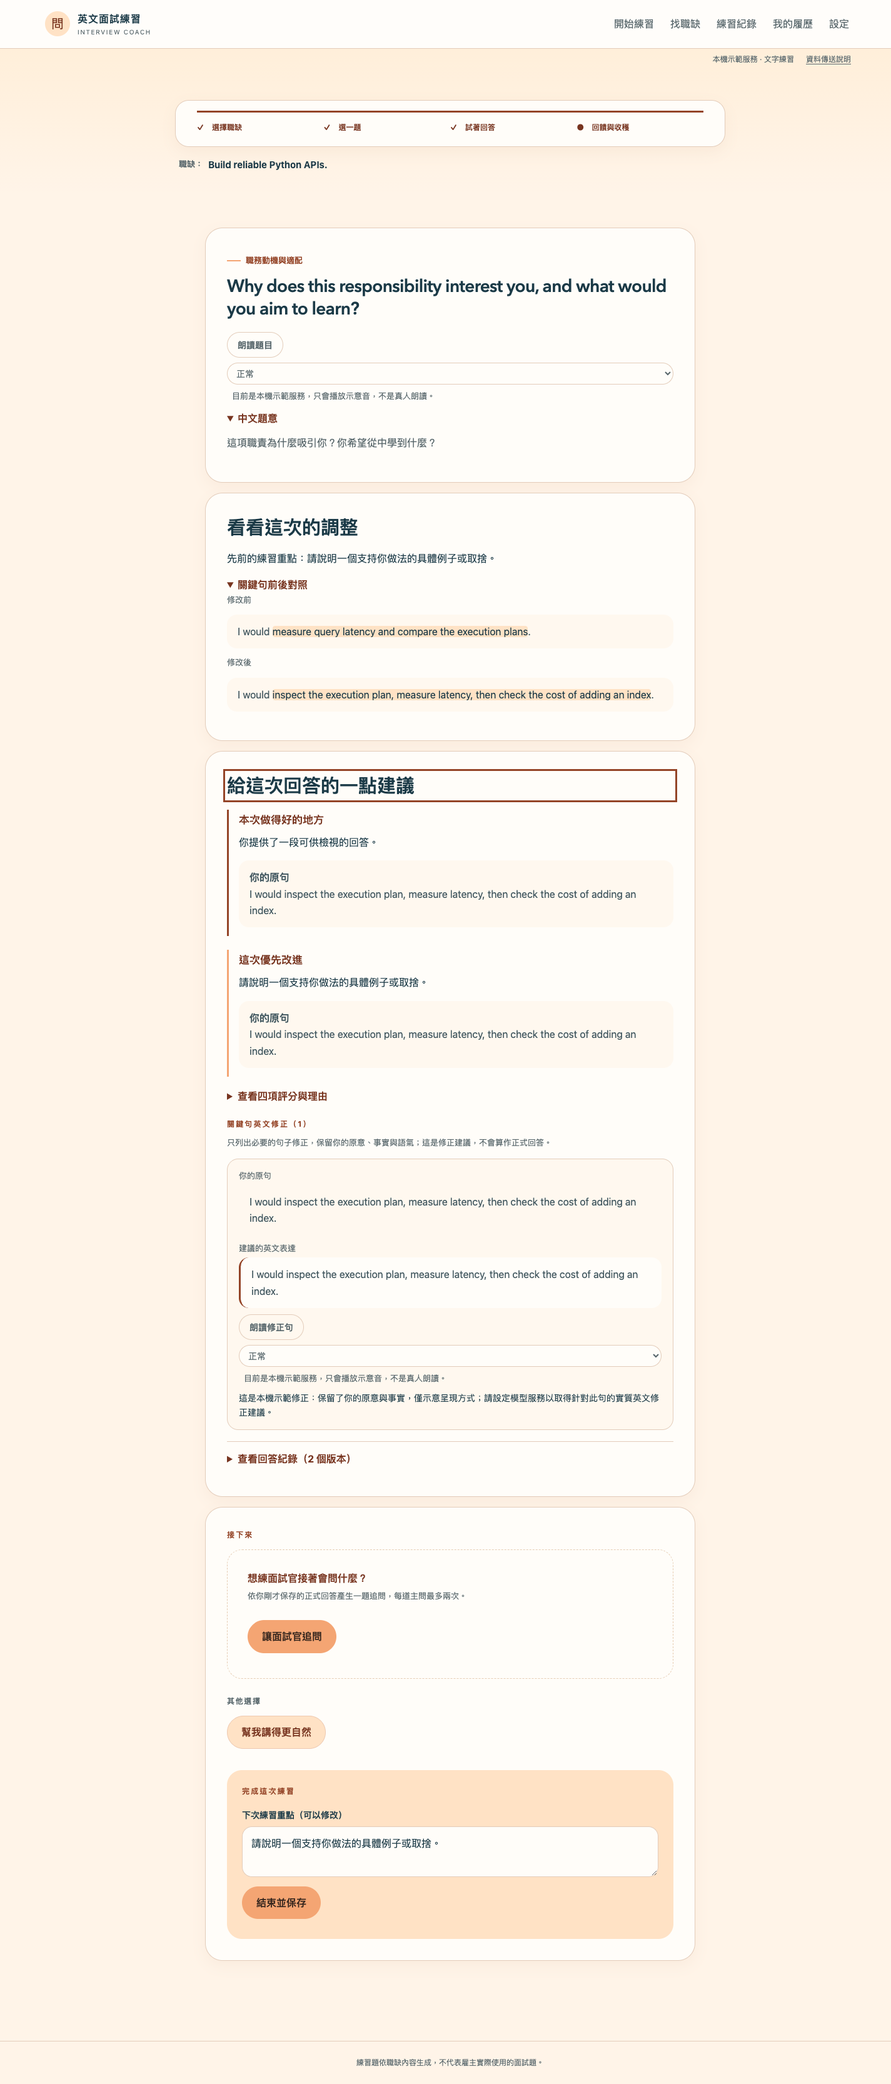
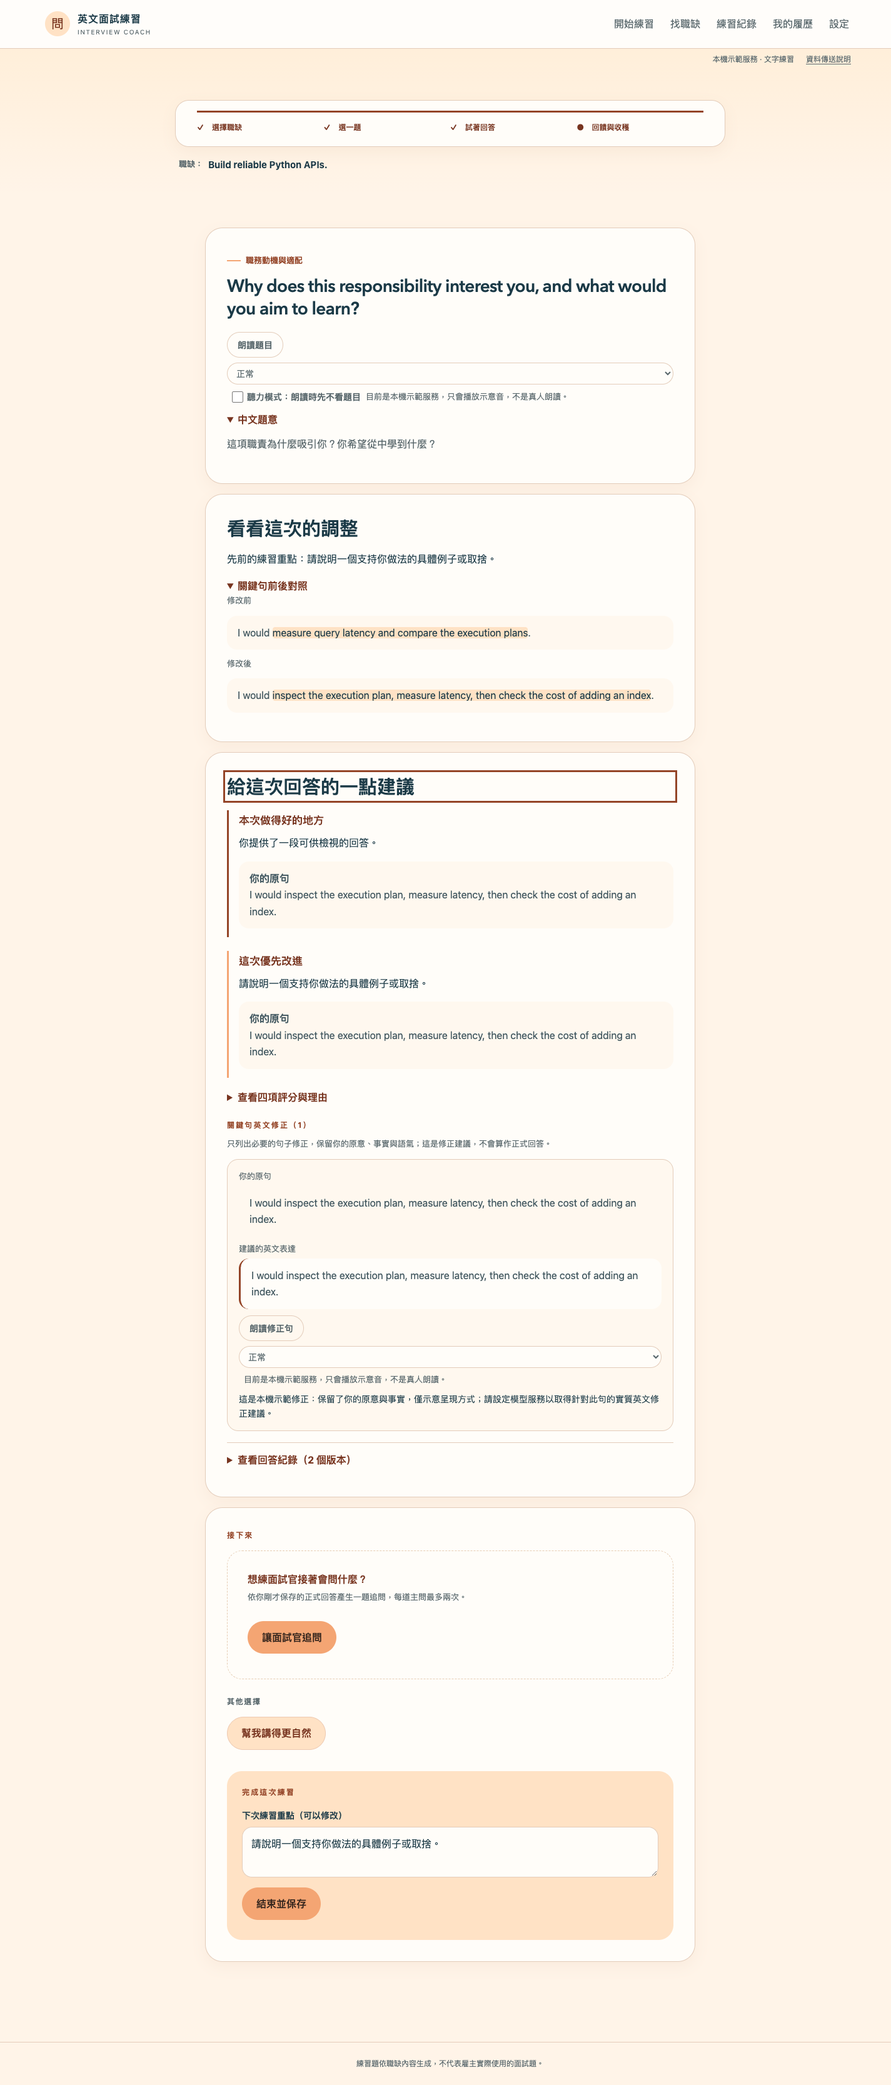
feat: Add an opt-in listening mode that hides the question
In a real interview the question arrives by ear only, so listening mode hides
the English question and its Chinese meaning while it is read aloud. It is off
by default, so the reading-along experience is unchanged unless asked for, and
the choice is remembered in this browser as a display preference rather than
practice data.

Two rules matter more than the feature. A read-aloud failure reveals the
question immediately, so a learner is never left unable to both hear and read
it. And hidden text uses the hidden attribute, so it leaves the accessibility
tree rather than being painted over.

The text never reappears on its own when the audio ends - working out what was
heard is the point - so revealing it is always a deliberate click.

Closes docs/issues/0021-hide-the-question-in-listening-mode.md

diff --git a/public/app.js b/public/app.js
@@ -133,12 +133,15 @@ function outboundLabel(value) {
 
 // Read-aloud is reference-addressed: the server resolves the English text from its
 // own stored data, so nothing on this page decides what gets spoken.
-function readAloud(parent, reference, label) {
+function readAloud(parent, reference, label, hideable) {
   // An ApiError message is already localized; a browser playback failure is raw English,
-  // so it is replaced rather than shown to the learner.
-  return mountReadAloud(parent, reference, {api, provider:providerInfo?.speech, label,
+  // so it is replaced rather than shown to the learner. `hideable` is the question text
+  // that listening mode hides; omit it where there is no question to hide.
+  return mountReadAloud(parent, reference, {api, provider:providerInfo?.speech, label, hideable,
     onError:error => setError(error instanceof ApiError ? error.message : '這個瀏覽器無法播放這段朗讀音訊。你可以再試一次，或直接閱讀畫面上的英文。')});
 }
+// The question text and its Chinese meaning sit either side of the read-aloud control.
+const questionText = scope => [scope?.querySelector('.question-text, .follow-up-question'), scope?.querySelector('details')].filter(Boolean);
 // An Answer Recording is evidence of what the learner said. It is served from this
 // machine, never cached, and an edited transcript is labelled rather than the audio
 // being presented as matching the edited text.
@@ -365,7 +368,7 @@ async function showQuestion(snapshotId, questionId, suppliedAnalysis) {
   const providerGate = modelReady() ? '' : `<div class="provider-warning"><strong>目前還不能取得模型回饋。</strong><p>請先到設定完成 Codex 登入與驗證；若要先整理想法，文字草稿仍會保存在本機。</p><div id="question-provider-gate"></div></div>`;
   const content = `<div id="recommended-question" class="question-phase"><p class="question-kicker">${recommended ? '建議先練' : '目前選擇'}｜${escape(categories[question.category] || question.category)}</p><h1 class="question-text" lang="en">${escape(question.text)}</h1><div id="question-read-aloud"></div><details open><summary>查看中文題意</summary><div class="detail-panel"><p>${escape(meaning)}</p></div></details>${providerGate}<div class="button-row" id="question-actions"></div></div>`;
   $('#practice').innerHTML = practiceFrame({stage:1, snapshot, content});
-  readAloud($('#question-read-aloud'), {snapshotId, questionId:question.id}, '朗讀題目');
+  readAloud($('#question-read-aloud'), {snapshotId, questionId:question.id}, '朗讀題目', questionText($('#recommended-question')));
   const actions = $('#question-actions');
   const begin = async () => {
     const existing = incompleteForQuestion(snapshotId, question.id);
@@ -912,8 +915,8 @@ async function showRecord(recordId, {editing=false,feedbackOnly=false,focusFeedb
     body+=`<section class="next-steps"><p class="eyebrow next-steps-title">接下來</p>${followUpHtml(record,complete)}${optional}${completion}</section>`;
   }
   $('#practice').innerHTML = practiceFrame({stage:last?.feedback?3:2,snapshot,content:body});
-  readAloud($('#question-read-aloud'), {recordId:record.id}, '朗讀題目');
-  if (currentFollowUp) readAloud($('#follow-up-read-aloud'), {recordId:record.id, followUpId:currentFollowUp.id}, '朗讀追問題目');
+  readAloud($('#question-read-aloud'), {recordId:record.id}, '朗讀題目', questionText($('#question-read-aloud')?.closest('.question-phase')));
+  if (currentFollowUp) readAloud($('#follow-up-read-aloud'), {recordId:record.id, followUpId:currentFollowUp.id}, '朗讀追問題目', questionText($('#follow-up-read-aloud')?.closest('.follow-up-flow')));
   // Corrections rendered inside the collapsed follow-up history are static markup, so
   // they need mounting here; the live panels mount through setupCorrections.
   document.querySelectorAll('[data-history-attempt]').forEach(area => mountCorrectionReadAloud(area, record.id, area.dataset.historyAttempt));
@@ -1013,7 +1016,7 @@ async function showMockSession(sessionId, {summaryFresh = false} = {}) {
         <div id="mock-voice-entry"></div>
         <div class="button-row" id="mock-actions"></div>
       </section></div></article>`;
-    readAloud($('#question-read-aloud'), {snapshotId: session.snapshotId, questionId: entry.question.id}, '朗讀題目');
+    readAloud($('#question-read-aloud'), {snapshotId: session.snapshotId, questionId: entry.question.id}, '朗讀題目', questionText($('#question-read-aloud')?.closest('.question-phase')));
     mountMockVoice(session, entry);
     const submissionId = crypto.randomUUID();
     button(session.currentPosition === session.questionCount ? '送出並結束這場模擬' : '送出，下一題', async () => {

diff --git a/test/browser-smoke.js b/test/browser-smoke.js
@@ -58,6 +58,38 @@ try {
  for(let i=0;i<4;i++){el('#question-read-aloud .read-aloud-replay').click();el('#question-read-aloud .read-aloud-play').click();}
  await new Promise(r=>setTimeout(r,600));
  if(window.__played.length>beforeBurst+1)throw Error('Overlapping readings started: '+(window.__played.length-beforeBurst));
+ // Listening mode: off by default, hides the question on play, reveals in one click.
+ const qText=()=>el('#recommended-question .question-text');
+ const qMeaning=()=>el('#recommended-question details');
+ if(!el('.listening-mode'))throw Error('Listening-mode toggle missing beside the question');
+ if(el('.listening-mode').checked)throw Error('Listening mode must be off by default');
+ if(qText().hidden)throw Error('Question hidden while listening mode is off');
+ el('.listening-mode').checked=true;el('.listening-mode').dispatchEvent(new Event('change',{bubbles:true}));
+ const playedBefore=window.__played.length;
+ click('#question-read-aloud .read-aloud-play');
+ await wait(()=>qText().hidden,'question hidden on play');
+ if(!qMeaning().hidden)throw Error('Chinese meaning stayed visible in listening mode');
+ if(el('.read-aloud-reveal').hidden)throw Error('No reveal control while the question is hidden');
+ await wait(()=>window.__played.length>playedBefore,'audio played in listening mode');
+ await new Promise(r=>setTimeout(r,300));
+ if(!qText().hidden)throw Error('Question reappeared by itself when the audio ended');
+ click('.read-aloud-reveal');
+ await wait(()=>!qText().hidden,'one-click reveal');
+ if(qMeaning().hidden)throw Error('Chinese meaning not revealed');
+ if(!el('.read-aloud-reveal').hidden)throw Error('Reveal control still shown after revealing');
+ // A read-aloud failure must reveal the question rather than leave nothing.
+ const realSpeech=window.fetch.bind(window);
+ window.fetch=async(...a)=>{if(a[1]?.method==='POST'&&String(a[0]).endsWith('/api/speech'))return new Response(JSON.stringify({error:'synthetic failure'}),{status:503,headers:{'Content-Type':'application/json'}});return realSpeech(...a);};
+ // Pick a speed whose audio is not already cached, so the request really is made.
+ el('#question-read-aloud .read-aloud-speed').value='fast';el('#question-read-aloud .read-aloud-speed').dispatchEvent(new Event('change',{bubbles:true}));
+ click('#question-read-aloud .read-aloud-play');
+ await wait(()=>el('#question-read-aloud .read-aloud-status').textContent.includes('已顯示題目'),'failure reveals the question');
+ if(qText().hidden)throw Error('Question stayed hidden after a read-aloud failure');
+ window.fetch=realSpeech;
+ el('.listening-mode').checked=false;el('.listening-mode').dispatchEvent(new Event('change',{bubbles:true}));
+ if(qText().hidden)throw Error('Turning listening mode off did not reveal the question');
+ sessionStorage.setItem('listening-checked','1');
+
  click('#question-actions button');await wait(()=>el('#answer'),'editor');
  if(!el('#retry-draft').hidden)throw Error('Retry visible before failure');
 

diff --git a/public/style.css b/public/style.css
@@ -471,3 +471,8 @@ mark { background: #ffe2c5; color: #1b3a47; border-radius: 4px; }
 .fit-part .meta { margin: 0; }
 .fit-gaps { background: var(--coral-soft); }
 .shortlist-card .shortlist-depth { margin-bottom: 8px; padding: 8px 12px; border: 1px solid var(--line); border-radius: 12px; }
+
+/* Listening mode: the toggle stays quiet, the reveal control stays obvious. */
+.listening-toggle { display: inline-flex; align-items: center; gap: 6px; margin: 0; font-size: 14px; color: var(--ink-soft); }
+.listening-toggle input { margin: 0; }
+.read-aloud-reveal { border-color: var(--teal); color: var(--teal-dark); }

diff --git a/docs/issues/0021-hide-the-question-in-listening-mode.md b/docs/issues/0021-hide-the-question-in-listening-mode.md
@@ -1,0 +1,96 @@
+---
+status: ready-for-human
+---
+
+# Hide the question in listening mode
+
+## Parent
+
+[PRD — Voice practice](../prd-voice-practice.md)
+
+## User stories covered
+
+54–62
+
+## Related
+
+Confirmed on 2026-09-21 in
+[`voice-practice-discussion.md`](../voice-practice-discussion.md) §"追加確認：聽力模式".
+Builds on issue 0014 (read aloud).
+
+## What to build
+
+An opt-in **listening mode**. In a real interview the question arrives by ear only;
+today the product always shows it, which is right for the default reading-along
+experience and wrong for anyone who wants to practise taking a question in by ear.
+
+A toggle sits beside the read-aloud control wherever a **question** can be read
+aloud: the single-question practice screen, the question inside a Practice Record,
+a Follow-up Question, and a Short Mock Session question. The Illustrative Answer
+and Key-Sentence Correction rewrites are reference text, not questions, and are out
+of scope.
+
+The toggle is **off by default**, so the existing behaviour — English question and
+Traditional Chinese meaning both on screen — is unchanged unless the learner asks
+for it. The choice is remembered across screens and reloads as a per-viewer
+convenience; it is a display preference, not practice data, so it does not belong
+in the Practice Record.
+
+With the mode on, pressing play hides the English question text and its Chinese
+meaning, and a **"顯示題目"** control stays visible the whole time. When the audio
+ends the text does **not** come back by itself — working out what was heard is the
+point — so revealing it is always a deliberate click. Revealing is per question:
+moving to another question starts hidden again while the mode is on.
+
+Two failure rules matter more than the feature itself:
+
+- If read-aloud fails for any reason, the question is revealed immediately. A
+  learner must never end up unable to both hear and read it.
+- If no read-aloud service is configured, the toggle is not rendered at all, so it
+  never offers something that cannot happen.
+
+Hidden text is removed from the accessibility tree, not merely painted over, so a
+screen-reader user gets the same experience rather than a silently different one.
+The state change is announced.
+
+## Acceptance criteria
+
+- [x] A listening-mode toggle appears beside the question read-aloud control on the
+      question screen, in a Practice Record, on a Follow-up Question and in a Short
+      Mock Session.
+- [x] The toggle is off by default and the current behaviour is unchanged while off.
+- [x] The choice is remembered across screens and across a page reload, and a
+      browser that refuses storage still works with the mode simply off.
+- [x] With the mode on, pressing play hides the English question and its Chinese
+      meaning.
+- [x] A "顯示題目" control is visible the whole time the text is hidden and reveals
+      it in one click.
+- [x] The text does not reappear on its own when the audio ends.
+- [x] Moving to another question starts hidden again while the mode is on.
+- [x] A read-aloud failure reveals the question immediately.
+- [x] The toggle is not rendered when the speech provider cannot speak.
+- [x] Hidden text is removed from the accessibility tree, and the change is
+      announced to assistive technology.
+- [x] Turning the mode off while the text is hidden reveals it.
+- [x] No Practice Record, Short Mock Session or workspace field is added or changed;
+      this is presentation only, and no HTTP contract changes.
+- [x] Browser smoke covers: default off, enabling, hiding on play, one-click reveal,
+      no auto-reveal on end, reveal on failure, and persistence across a reload.
+
+## Out of Scope
+
+- Hiding the Illustrative Answer or Key-Sentence Correction rewrites.
+- Any listening comprehension scoring, replay limits or "how many times did you
+  listen" tracking.
+- Changing the default reading-along experience.
+- Dictation (typing what you heard and being marked on it).
+
+## Blocked by
+
+- [Issue 0014](./0014-read-english-practice-text-aloud.md) (completed)
+
+## Verification
+
+Implemented and verified through the browser seam and a real-browser walk.
+[Evidence](../verification/0021.md). Whether it genuinely helps listening practice
+is pending learner acceptance.

diff --git a/docs/verification/0021.md b/docs/verification/0021.md
@@ -1,0 +1,40 @@
+# Issue 0021 verification — listening mode
+
+Date: 2026-09-21. Implementation by the main agent. No independent review yet.
+
+| AC | Evidence |
+|---|---|
+| Toggle beside the question read-aloud control in all four places | Mounted wherever a question is read aloud: the question screen, a Practice Record, a Follow-up Question and a Short Mock Session question. It is passed the question text and its Chinese meaning; the Illustrative Answer and correction rewrites get no `hideable`, so no toggle appears there |
+| Off by default, current behaviour unchanged while off | Browser smoke asserts the toggle exists, is unchecked, and the question is visible |
+| Remembered across screens and a page reload | Persisted in `localStorage`; verified in a real browser across a genuine reload (`persistedAcrossReload: true`, `storedValue: "on"`). A module-level listener keeps every mounted control in step within a page |
+| Storage refusal still works | Both the read and the write are wrapped in `try/catch`; a browser that refuses storage simply runs with the mode off |
+| Pressing play hides the English question and its Chinese meaning | Asserted in the smoke test; hiding happens *before* the request so the learner cannot read ahead while the audio loads |
+| A reveal control is visible the whole time and reveals in one click | `顯示題目` is un-hidden with the text and asserted in the smoke test |
+| No auto-reveal when the audio ends | The smoke test waits for playback, then waits again and asserts the question is still hidden |
+| Another question starts hidden again | Each mount renders fresh with the text visible and hides on its own next play |
+| A read-aloud failure reveals the question immediately | Asserted in the smoke test with a stubbed 503, and **observed in a real browser**: the demo tone failed to play and the question was revealed with 「朗讀失敗，已顯示題目，可再試一次。」 |
+| No toggle when the provider cannot speak | `mountReadAloud` returns early when `canSpeak` is false, so neither the control nor the toggle is rendered |
+| Hidden text is out of the accessibility tree | The `hidden` attribute is used, not a visual-only class. Verified in a real browser: `hidden: true`, `display: none`, `offsetParent: null` |
+| Turning the mode off while hidden reveals the text | Asserted in the smoke test |
+| No schema, record or HTTP contract change | Presentation only; `npm test` unchanged at 163/163 and no server file was touched |
+
+Automated evidence: `npm test` — **163/163 pass** (unchanged; this issue adds no API
+surface). `npm run test:browser` — **PASS**, including the full listening-mode walk.
+
+Real-browser verification: default off, enable, reload, reopen the practice, confirm
+the mode persisted, confirm hiding removes the text from the accessibility tree, and
+confirm a failure reveals it.
+
+Limits and what is **not** verified:
+
+- **Whether it is actually useful for listening practice is a human judgement**, and
+  is pending learner acceptance. Nothing here says the mode teaches anything.
+- Audible playback is still unverified in this environment (see
+  [the third-round record](./third-round-0014-0020.md)); the failure path was
+  exercised precisely because playback failed.
+- The preference is per browser and per device, and is lost when site data is
+  cleared. That is deliberate: it is a display preference, not practice data, so it
+  is not stored in the Practice Record.
+- No screen reader was actually run. The evidence is that hidden text is removed
+  from the accessibility tree by the `hidden` attribute, not an observation of
+  assistive-technology behaviour.

diff --git a/docs/voice-practice-discussion.md b/docs/voice-practice-discussion.md
@@ -20,7 +20,17 @@
 - 轉錄完成後顯示可修改的逐字稿，使用者可直接按「送出回答」取得回饋；不要求逐句檢查或額外確認勾選，需要時才修改或重錄。不自動提交，尚未送出不算正式回答。使用者於 2026-09-21 接受此折衷方案。
 - 每次錄音最多 3 分鐘，顯示已錄時間，接近上限提醒；到時自動停止並转錄，不丟掉已錄內容。使用者於 2026-09-21 確認。實作須同步核對既有上傳大小限制，不能只改前端計時。
 
-## 2026-09-21 批次確認
+## 2026-09-21 追加確認：聽力模式
+
+使用者在第三輪交付後詢問「朗讀時是否應該隱藏題目文字，讓人練聽力」，並在看過建議後指示開立 issue 0021 實作。以下為確認的決策。
+
+- 提供一個可開關的**聽力模式**，預設關閉，記住使用者的選擇。不改變既有「英文題目與中文題意保留」的預設行為。
+- 開啟後，按下朗讀時隱藏英文題目與中文題意；旁邊永遠保留「顯示題目」按鈕，按一下即可看到文字。
+- 朗讀結束後文字不會自動出現，要由使用者自己按「顯示題目」；這是聽力練習的重點。
+- 朗讀失敗時必須立刻顯示題目，不能讓使用者既聽不到也看不到。
+- 沒有配置朗讀服務時不顯示這個開關。
+- 適用範圍為「題目」：單題練習的主問、練習紀錄中的題目、追問題、三題短場模擬的題目。示範回答與關鍵句修正屬於參考文字，不納入。
+- 建議在三題短場模擬最有價值（模擬真實情境只聽得到題目），但單題練習也提供，由使用者決定。
 
 使用者針對 27 項清單回覆「其他都可以，但要能回聽自己的錄音」，隨後確認保存在本機。以下記錄接受的建議。涉及服務選擇、費用與來源可用性的調查不因本次接受方向而視為完成。
 

diff --git a/docs/prd-voice-practice.md b/docs/prd-voice-practice.md
@@ -219,6 +219,29 @@ emotion or personality.
 47. As a Target Learner, I want to see roughly how much recording audio is stored
     locally, so that local retention is visible rather than hidden.
 
+### Listening mode (added 2026-09-21, issue 0021)
+
+54. As a Target Learner, I want an optional listening mode that hides the question
+    text while it is read aloud, so that I practise taking a question in by ear the
+    way a real interview gives it to me.
+55. As a Target Learner, I want that mode off by default, so that the calm
+    read-along experience I already have is unchanged unless I ask for it.
+56. As a Target Learner, I want my choice remembered, so that I do not re-enable it
+    every time.
+57. As a Target Learner, I want a "show the question" control always visible while
+    the text is hidden, so that I am never stuck.
+58. As a Target Learner, I do not want the text to reappear by itself when the
+    audio ends, so that I actually have to work out what I heard.
+59. As a Target Learner whose read-aloud fails, I want the question shown
+    immediately, so that I am never left unable to both hear and read it.
+60. As a Target Learner using a screen reader, I want hidden text removed from the
+    accessible tree rather than only visually hidden, so that the mode means the
+    same thing for me as for anyone else.
+61. As a Target Learner, I want the toggle absent when no read-aloud service is
+    configured, so that it never promises something that cannot happen.
+62. As a Target Learner in a Short Mock Session, I want the mode to work there too,
+    so that the closest thing to a real interview can be heard rather than read.
+
 ### Disclosure, privacy and scope of assessment
 
 48. As a Target Learner, I want the screen to name the service that receives my

diff --git a/docs/issues/README.md b/docs/issues/README.md
@@ -24,6 +24,7 @@ Local issue tracker for the Adaptive English Interview Coach. All issues below w
 | [0018 — Run a three-question Short Mock Session](./0018-run-a-three-question-short-mock-session.md) | ready-for-human | 0017 |
 | [0019 — Interpret a natural-language job request](./0019-interpret-a-natural-language-job-request.md) | ready-for-human | None |
 | [0020 — Curate five jobs with a Fit Breakdown](./0020-curate-five-jobs-with-a-fit-breakdown.md) | ready-for-human | 0019 |
+| [0021 — Hide the question in listening mode](./0021-hide-the-question-in-listening-mode.md) | ready-for-human | 0014 |
 
 Implementation should proceed in dependency order. Start each issue in a fresh session with the PRD and only the selected issue as the implementation brief.
 
@@ -31,6 +32,6 @@ Implementation should proceed in dependency order. Start each issue in a fresh s
 
 | PRD | Issues |
 |---|---|
-| [Voice practice](../prd-voice-practice.md) | 0014–0017 |
+| [Voice practice](../prd-voice-practice.md) | 0014–0017, 0021 |
 | [Three-question short mock session](../prd-short-mock-session.md) | 0018 |
 | [Natural-language curated job discovery](../prd-curated-job-discovery.md) | 0019–0020 |
